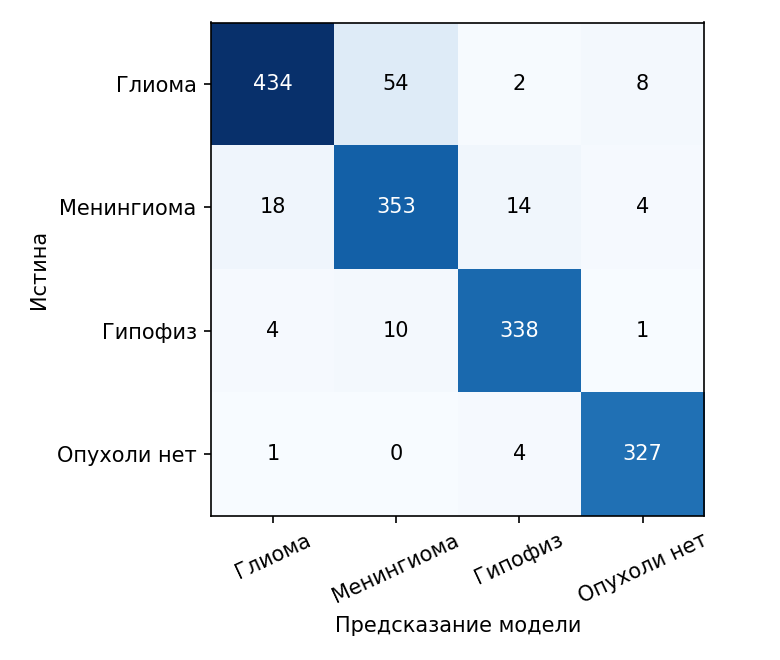
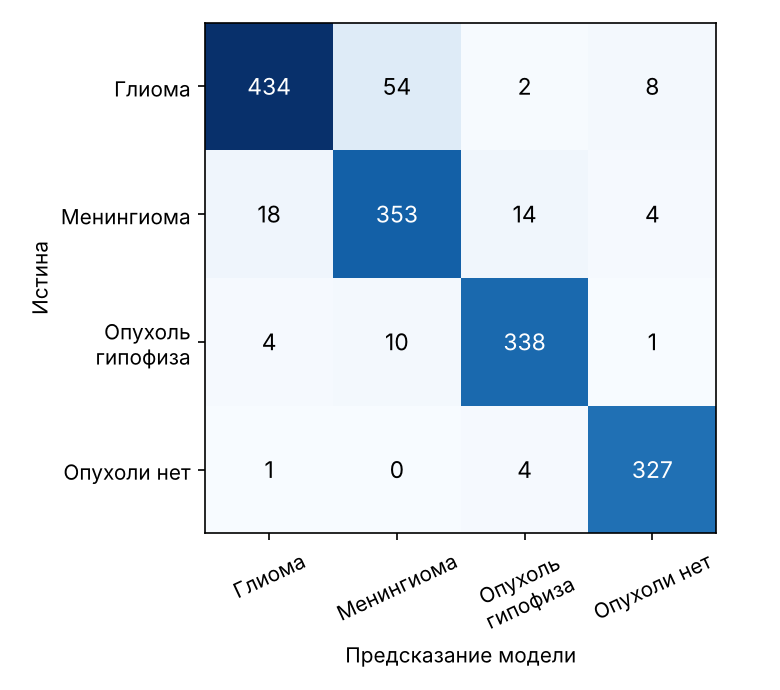
Rename class 'Гипофиз' to 'Опухоль гипофиза' in README and confusion matrix
Claude-Session: https://claude.ai/code/session_01KWjYFaDqWdYY8y4uMMdgwF

diff --git a/README.md b/README.md
@@ -13,12 +13,12 @@
 
 > Демо переводится на финальную модель ResNet-50 19.10.2026; до этого оно работает на прежней EfficientNet-B0 (интерфейс тот же).
 
-**Проверка на своих снимках:** ячейка 3 того же блокнота («Пакетная проверка») — укажите папку или `.zip`. Получите таблицу `batch_results.csv` (класс, вероятности, найден ли контур, площадь) и картинки с контуром. Если снимки разложены по папкам классов (`glioma/`, `meningioma/`, `pituitary/`, `notumor/` или `Глиома/`, `Менингиома/`, `Гипофиз/`, `Нет опухоли/`), ячейка сама посчитает точность, чувствительность и специфичность.
+**Проверка на своих снимках:** ячейка 3 того же блокнота («Пакетная проверка») — укажите папку или `.zip`. Получите таблицу `batch_results.csv` (класс, вероятности, найден ли контур, площадь) и картинки с контуром. Если снимки разложены по папкам классов (`glioma/`, `meningioma/`, `pituitary/`, `notumor/` или `Глиома/`, `Менингиома/`, `Гипофиз/` или `Опухоль гипофиза/`, `Нет опухоли/`), ячейка сама посчитает точность, чувствительность и специфичность.
 
 ## Что сделано
 
 1. **Аудит данных организаторов.** У **77%** снимков официального теста есть почти точная копия в обучающей части (корреляция ≥ 0.98 с учётом поворотов и отражений). Простой поиск похожего снимка без нейросети даёт на официальном тесте **93%**. Поэтому все модели оцениваются на собственном **групповом разбиении**: копии одного снимка, его аугментации и снимки одного пациента не попадают одновременно в обучение и тест.
-2. **Классификатор** — наличие и тип опухоли (глиома / менингиома / гипофиз / нет опухоли). Сравнили 9 вариантов (архитектуры, аугментации, предобучение, разрешение, ансамбли); **по валидации выбран ResNet-50** (тест для выбора не использовался).
+2. **Классификатор** — наличие и тип опухоли (глиома / менингиома / опухоль гипофиза / нет опухоли). Сравнили 9 вариантов (архитектуры, аугментации, предобучение, разрешение, ансамбли); **по валидации выбран ResNet-50** (тест для выбора не использовался).
 3. **Сегментация** (U-Net, ResNet34) — контур опухоли. Обучена на масках врачей из открытого набора Figshare (Cheng, 233 пациента). Внутри данных организаторов найдены снимки 231 из этих пациентов, маски перенесены на них.
 4. **Прототип для врача** (Gradio): снимок → оценка наличия и типа → выделенная область → текстовое пояснение; пакетная проверка папки.
 5. **Проверки честности и устойчивости**, независимая рецензия методики.
@@ -36,7 +36,7 @@
 | Только новые пациенты Figshare (3 типа) | Accuracy | 94.0% |
 | Уникальные снимки (без копий и аугментаций, 566) | Accuracy | 92.6% |
 | Сегментация, 43 новых пациента (561 срез) | Dice средний / медиана | **0.79** [0.75–0.83] / 0.89 |
-| | Dice по типам | менингиома 0.90 · гипофиз 0.84 · глиома 0.70 |
+| | Dice по типам | менингиома 0.90 · опухоль гипофиза 0.84 · глиома 0.70 |
 | Сегментация, снимки организаторов | Dice | 0.82 |
 | Здоровые срезы | Ложный контур (правило демо)* | 0.3% (1 из 332) |
 
